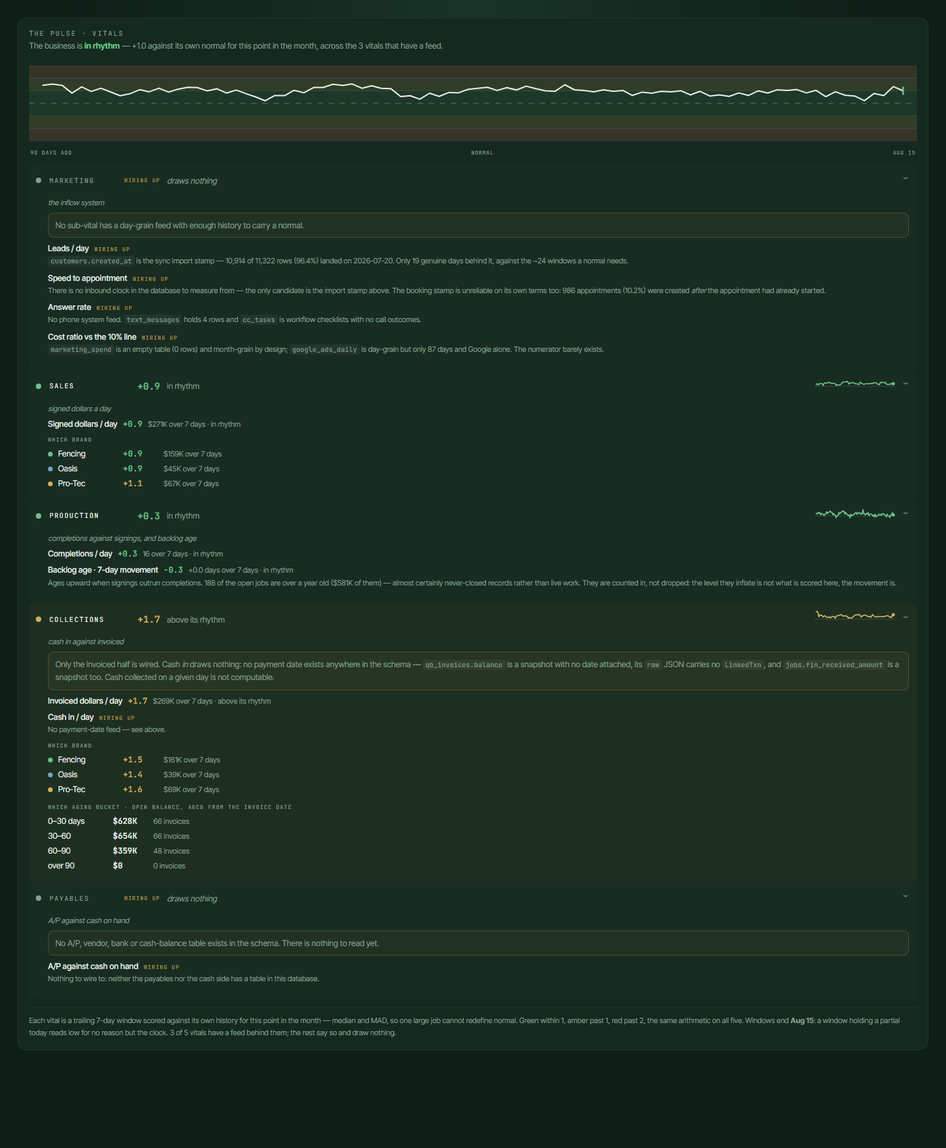
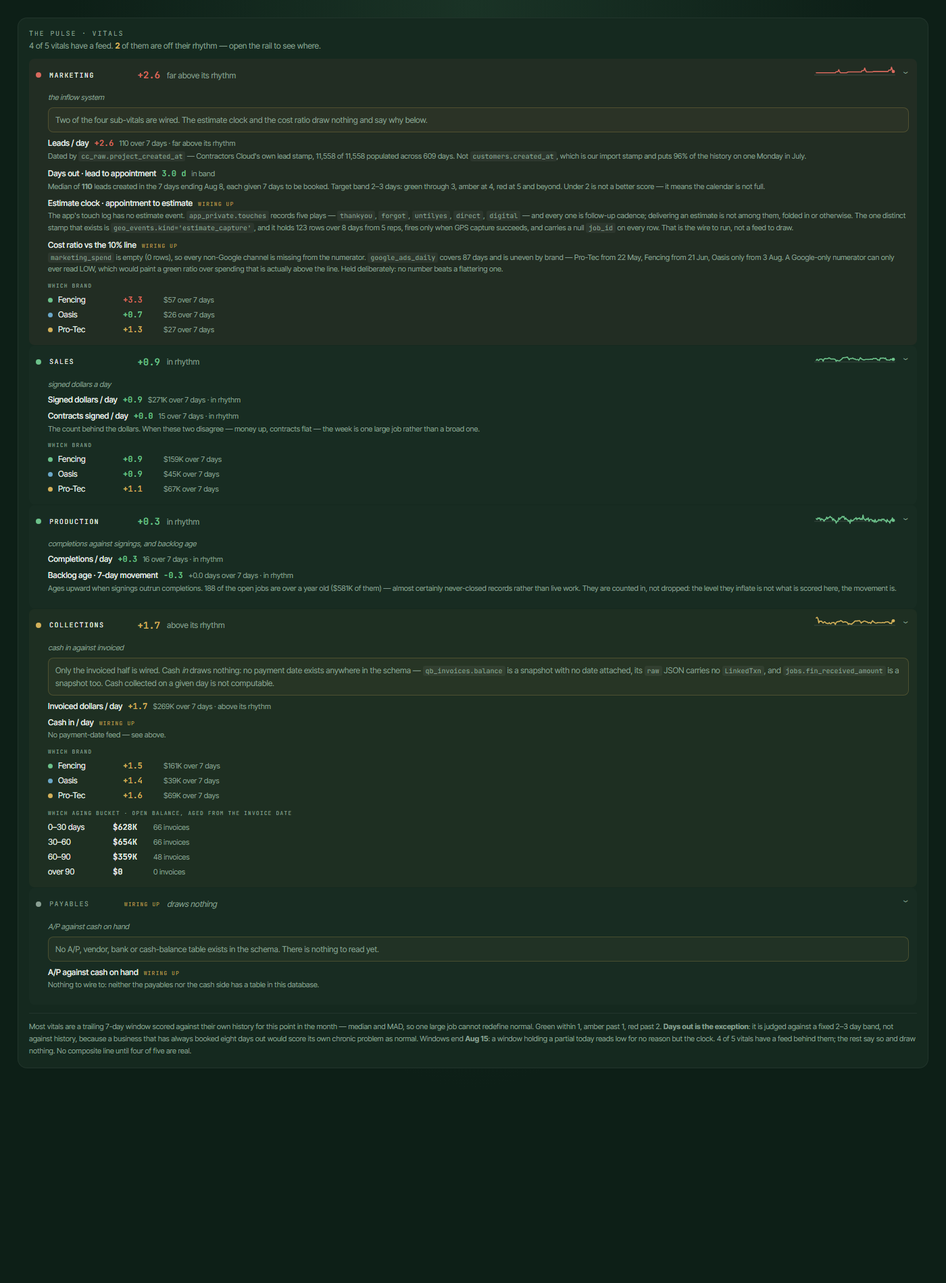
Marketing: LEADS/DAY and DAYS OUT are real lanes, and the lead clock was in cc_raw all along
The first pass shipped all four Marketing sub-vitals as "wiring up" on the
finding that no inbound clock existed. That was wrong, and the miss was mine:
I audited customers.created_at and jobs.created_at, found both to be the sync
import stamp, and never looked inside jobs.cc_raw.

cc_raw->>'project_created_at' is Contractors Cloud's own lead stamp and it is
real: 11,558 of 11,558 CC jobs populated, 609 distinct days, 2024-06-05 to
2026-08-14. Organic, not a backfill — Mon 25.6% / Sun 0.9%, biggest day 60
against a median of 18, and the five biggest days in two years are all ordinary
Mondays. It is lifted out server-side by PostgREST rather than pulling cc_raw
itself, which would put megabytes on every phone open for one timestamp.

LEADS / DAY rides the same engine as everything else: trailing 7-day window,
median + MAD, scored against its own history for this point in the month.

DAYS OUT does not, deliberately. It is judged against Kevin's fixed 2-3 day
band — green through 3, amber at 4, red at 5 and beyond — because a z-score
here defeats itself: a shop that has always booked eight days out has a
"normal" of eight, and scoring against it would report a chronic problem as
perfectly healthy. Under 2 stays green by the band but reads "capacity idle —
need leads" in words, because a calendar that empties is not a better score.

Two measurement choices worth naming:

  THE WINDOW IS SETTLED, NOT TRAILING. A window ending yesterday holds leads
[…]

diff --git a/index.html b/index.html
@@ -148,20 +148,15 @@
   .ekg-cap { font-family: 'JetBrains Mono', monospace; font-size: 8px; letter-spacing: 0.08em; text-transform: uppercase; color: var(--text-dim); margin-top: 3px; }
   .ekg-cap-ref { margin-left: 10px; color: var(--gold); opacity: 0.85; letter-spacing: normal; text-transform: none; }
   /* ── THE PULSE ─────────────────────────────────────────────────────────────
-     A vitals monitor reads top-down in one glance, so the composite trace gets
-     the width and the five vitals below it are rails, not cards. Nothing here
-     scrolls sideways and nothing depends on colour alone — every band carries a
-     number and a word beside its dot. */
+     A vitals monitor reads top-down in one glance, so the five vitals are rails,
+     not cards. Nothing here scrolls sideways and nothing depends on colour alone
+     — every band carries a number and a word beside its dot.
+
+     THE COMPOSITE TRACE IS HELD, and its geometry is deliberately gone rather
+     than parked. Kevin, 16 Aug: a single line over the whole business implies it
+     read the whole business, and today only two of five vitals have a feed. It
+     returns when four of five are real; recover the trace from 7840c0e. */
   .pulse-card { margin-bottom: 14px; }
-  .pulse-trace { display: block; width: 100%; height: 132px; margin: 4px 0 0; }
-  .pt-green { fill: rgba(108,194,139,0.10); }
-  .pt-amber { fill: rgba(212,177,90,0.14); }
-  .pt-red   { fill: rgba(217,106,94,0.17); }
-  .pt-rule  { stroke: rgba(255,255,255,0.10); stroke-width: 1; }
-  .pt-zero  { stroke: rgba(255,255,255,0.28); stroke-width: 1; stroke-dasharray: 4,4; }
-  .pt-line  { stroke: var(--text); stroke-width: 2; stroke-linecap: round; stroke-linejoin: round; }
-  .pulse-axis { display: flex; justify-content: space-between; font-family: 'JetBrains Mono', monospace;
-    font-size: 8px; letter-spacing: 0.1em; text-transform: uppercase; color: var(--text-dim); margin: 2px 2px 12px; }
   .pulse-vitals { display: flex; flex-direction: column; gap: 1px; }
   .pulse-vital { border-radius: 8px; overflow: hidden; background: rgba(255,255,255,0.015); }
   .pv-head { display: grid; grid-template-columns: 10px 96px 58px 1fr 120px 12px; align-items: center; gap: 10px;
@@ -216,7 +211,6 @@
     .pv-head { grid-template-columns: 10px 1fr 46px 12px; gap: 8px; row-gap: 2px; padding: 8px; }
     .pv-word { grid-column: 2 / 4; font-size: 11px; }
     .pv-spark { display: none; }
-    .pulse-trace { height: 104px; }
     .pulse-vital.open .pv-drill-in { padding: 2px 10px 12px 18px; }
     .pd-brand { flex-wrap: wrap; }
   }
@@ -4449,13 +4443,18 @@ const RHY_SEV  = { hot:'good', warm:'good', flat:'watch', cooling:'watch', cold:
 const rhyTick = d => d === null ? 'flat'
   : d >= 8 ? `▲${d}%` : d <= -8 ? `▼${Math.abs(d)}%` : 'flat';
 /* ── THE PULSE, drawn ────────────────────────────────────────────────────────
-   One composite trace on top — the whole business as a single line — with the
-   five vitals stacked beneath it. Glance at the top; drill down only if it
-   wobbles. Every row is a symptom and a place to look, never an instruction.
+   Five vitals stacked as rails. Glance down the dots; drill into whichever one
+   is not green. Every row is a symptom and a place to look, never an instruction.
+
+   NO COMPOSITE TRACE. It was built and then held (Kevin, 16 Aug): one line over
+   "the whole business" is a claim to have measured the whole business, and three
+   of these five vitals still have no feed. Averaging two live vitals into a
+   confident-looking line is precisely the lie the rest of this card refuses. The
+   composite ships when four of five are real.
 
    A vital with no feed behind it draws NOTHING. Not a flat line, not a zero, not
    a greyed guess — an empty rail and the reason in words. A drawn line is a
-   claim that something was measured, and three of these five have not been. */
+   claim that something was measured. */
 const PULSE_BAND_C = { green:'var(--green)', amber:'var(--gold)', red:'var(--red)', none:'var(--text-dim)' };
 
 function pulseWord(z, band){
@@ -4467,46 +4466,9 @@ function pulseWord(z, band){
 }
 const pulseZ = z => z === null ? '—' : (z >= 0 ? '+' : '−') + Math.abs(z).toFixed(1);
 
-/* The composite trace. Zero is the centre line and it is drawn, because on a
+/* A vital's own trace, at rail size. Zero is the centre line, because on a
    deviation score zero IS the baseline — "normal" is a real place on this axis,
-   not a truncation. The ±1 and ±2 bands are shaded behind the line so the
-   reading needs no legend and no axis labels. */
-function pulseTraceSvg(points, { w = 640, h = 132 } = {}){
-  const zs = points.map(p => p.z).filter(z => z !== null);
-  if (zs.length < 2) return '';
-  const pad = 10;
-  const zMax = Math.max(3, Math.ceil(Math.max(...zs.map(Math.abs))));
-  const n = points.length, stepX = (w - pad*2) / (n - 1);
-  const X = i => pad + i * stepX;
-  const Y = z => h/2 - (Math.max(-zMax, Math.min(zMax, z)) / zMax) * (h/2 - pad);
-  const segs = []; let cur = [];
-  points.forEach((p, i) => {
-    if (p.z === null){ if (cur.length > 1) segs.push(cur); cur = []; }
-    else cur.push(`${X(i).toFixed(1)},${Y(p.z).toFixed(1)}`);
-  });
-  if (cur.length > 1) segs.push(cur);
-  const last = points.reduce((a, p, i) => p.z !== null ? i : a, -1);
-  const band = pBand(last >= 0 ? points[last].z : null);
-  /* y is the UPPER of the two edges — Y() inverts, so Y(2) sits below Y(3) and
-     taking Y(b) blindly drew every band displaced downward by its own height. */
-  const rect = (a, b, cls) => `<rect x="0" y="${Math.min(Y(a), Y(b)).toFixed(1)}" width="${w}" height="${Math.abs(Y(a)-Y(b)).toFixed(1)}" class="${cls}"/>`;
-  return `<svg class="pulse-trace" viewBox="0 0 ${w} ${h}" preserveAspectRatio="none" role="img"
-      aria-label="Composite pulse, ${points.length} days, currently ${pulseZ(last>=0?points[last].z:null)} standard deviations from normal">
-    ${rect(zMax, 2, 'pt-red')}${rect(2, 1, 'pt-amber')}${rect(1, -1, 'pt-green')}${rect(-1, -2, 'pt-amber')}${rect(-2, -zMax, 'pt-red')}
-    ${[1,-1,2,-2].map(v => `<line x1="0" y1="${Y(v).toFixed(1)}" x2="${w}" y2="${Y(v).toFixed(1)}" class="pt-rule"/>`).join('')}
-    <line x1="0" y1="${Y(0)}" x2="${w}" y2="${Y(0)}" class="pt-zero"/>
-    ${segs.map(s => `<polyline points="${s.join(' ')}" class="pt-line" fill="none" vector-effect="non-scaling-stroke"/>`).join('')}
-    ${/* A vertical tick, not a dot: the viewBox is stretched horizontally to the
-          card width, which turns any circle into an ellipse. A tick is honest at
-          every width. */''}
-    ${last >= 0 ? `<line x1="${X(last).toFixed(1)}" y1="${(Y(points[last].z)-6).toFixed(1)}"
-        x2="${X(last).toFixed(1)}" y2="${(Y(points[last].z)+6).toFixed(1)}"
-        vector-effect="non-scaling-stroke" style="stroke:${PULSE_BAND_C[band]};stroke-width:2.5"/>` : ''}
-  </svg>`;
-}
-
-/* A vital's own trace, at rail size. Same zero-centred geometry as the composite
-   so the two are read with one habit, not two. */
+   not a truncation. */
 function pulseSparkSvg(spark, band, { w = 120, h = 30 } = {}){
   const zs = spark.map(p => p.z).filter(z => z !== null);
   if (zs.length < 2) return '';
@@ -4531,16 +4493,25 @@ function pulseDrill(key){
   if (el) el.classList.toggle('open');
 }
 
+/* Two kinds of sub-vital share this row, and they must not be made to look
+   alike. A z-scored one reads "how unusual is this against our own history"; a
+   threshold one reads "did this clear a line Kevin drew". Printing a z beside a
+   number that was never z-scored would invent a precision the second kind does
+   not have, so a threshold sub shows its measured value and its word, and no z
+   at all. */
 function pulseSubRow(s){
   const val = !s.live ? '' : s.unit === '$' ? short(s.value)
     : s.unit === 'd' ? (s.value >= 0 ? '+' : '−') + Math.abs(s.value).toFixed(1) + ' days'
     : Math.round(s.value);
+  const live = s.kind === 'band'
+    ? `<span class="pd-sub-z" style="color:${PULSE_BAND_C[s.band]}">${esc(s.valText)}</span>
+       <span class="pd-sub-v">${esc(s.wordText)}</span>`
+    : `<span class="pd-sub-z" style="color:${PULSE_BAND_C[s.band]}">${pulseZ(s.z)}</span>
+       <span class="pd-sub-v">${val} over 7 days · ${pulseWord(s.z, s.band)}</span>`;
   return `<div class="pd-sub${s.live ? '' : ' off'}">
     <div class="pd-sub-h">
       <span class="pd-sub-n">${esc(s.name)}</span>
-      ${s.live ? `<span class="pd-sub-z" style="color:${PULSE_BAND_C[s.band]}">${pulseZ(s.z)}</span>
-                  <span class="pd-sub-v">${val} over 7 days · ${pulseWord(s.z, s.band)}</span>`
-               : `<span class="pd-wire">WIRING UP</span>`}
+      ${s.live ? live : `<span class="pd-wire">WIRING UP</span>`}
     </div>
     ${s.note ? `<div class="pd-sub-note">${s.note}</div>` : ''}
   </div>`;
@@ -4559,15 +4530,22 @@ function pulseBrandRow(b){
 function cardPulse(){
   const P = D.pulse;
   if (!P) return '';
-  const head = P.z === null
+  /* No composite reading, because there is no composite. The header counts what
+     is measured and what is not, which is the honest one-line summary of a card
+     that is three-fifths unwired. */
+  const worst = P.vitals.filter(v => v.live && v.band !== 'green').length;
+  const head = !P.live
     ? 'No vital has enough history behind it to claim a normal yet.'
-    : `The business is <b style="color:${PULSE_BAND_C[P.band]}">${pulseWord(P.z, P.band)}</b> — ${pulseZ(P.z)} against its own normal for this point in the month, across the ${P.live} vital${P.live === 1 ? '' : 's'} that have a feed.`;
+    : `${P.live} of ${P.total} vitals have a feed. ` + (worst
+        ? `<b style="color:var(--gold)">${worst}</b> of them ${worst === 1 ? 'is' : 'are'} off their rhythm — open the rail to see where.`
+        : `All ${P.live} are in rhythm.`);
 
   const rows = P.vitals.map(v => {
-    const open = v.live ? '' : '';
+    const zTxt = v.zText != null ? esc(v.zText) : pulseZ(v.z);
+    const wTxt = v.wordText != null ? esc(v.wordText) : pulseWord(v.z, v.band);
     const body = v.live
-      ? `<span class="pv-z" style="color:${PULSE_BAND_C[v.band]}">${pulseZ(v.z)}</span>
-         <span class="pv-word">${pulseWord(v.z, v.band)}</span>
+      ? `<span class="pv-z" style="color:${PULSE_BAND_C[v.band]}">${zTxt}</span>
+         <span class="pv-word">${wTxt}</span>
          <span class="pv-spark">${pulseSparkSvg(v.spark, v.band)}</span>`
       : `<span class="pv-wire">WIRING UP</span><span class="pv-word off">draws nothing</span><span class="pv-spark"></span>`;
     const drill = [
@@ -4598,16 +4576,17 @@ function cardPulse(){
   return `<div class="card pulse-card">
     <div class="card-title">The pulse · vitals</div>
     <div class="card-sub">${head}</div>
-    ${pulseTraceSvg(P.trace)}
-    <div class="pulse-axis"><span>90 days ago</span><span>normal</span><span>${esc(endTxt)}</span></div>
     <div class="pulse-vitals">${rows}</div>
     <div class="pulse-foot">
-      Each vital is a trailing 7-day window scored against its own history for this
-      point in the month — median and MAD, so one large job cannot redefine normal.
-      Green within 1, amber past 1, red past 2, the same arithmetic on all five.
-      Windows end <b>${esc(endTxt)}</b>: a window holding a partial today reads low for
-      no reason but the clock. ${P.live} of ${P.total} vitals have a feed behind them;
-      the rest say so and draw nothing.
+      Most vitals are a trailing 7-day window scored against their own history for
+      this point in the month — median and MAD, so one large job cannot redefine
+      normal. Green within 1, amber past 1, red past 2. <b>Days out is the
+      exception</b>: it is judged against a fixed 2–3 day band, not against history,
+      because a business that has always booked eight days out would score its own
+      chronic problem as normal. Windows end <b>${esc(endTxt)}</b>: a window holding a
+      partial today reads low for no reason but the clock. ${P.live} of ${P.total}
+      vitals have a feed behind them; the rest say so and draw nothing. No composite
+      line until four of five are real.
     </div>
   </div>`;
 }
@@ -5928,7 +5907,7 @@ addEventListener('resize', () => {
    server for hours while Kevin looked at yesterday's build and reported the bug
    as unfixed. That happened. The page now checks version.json on every load and
    reloads itself once if the deployed build is newer than the one running. */
-const BUILD = '2026-08-16T18:40Z-the-pulse';
+const BUILD = '2026-08-16T21:15Z-pulse-lead-lanes';
 const SB_URL = 'https://lzegjjbkfuecrhdvlvay.supabase.co';
 /* The one page that can finish a password reset. Hard-coded rather than derived,
    because every derivation of it so far has been a source of bugs: a bare origin
@@ -6228,6 +6207,7 @@ function buildPulse(jobs, qbInv){
   const signed = jobs.filter(j => j.contract_signed_at);
   const done   = jobs.filter(j => j.completed_at);
   const sMap = agg(signed, 'contract_signed_at', j => Number(j.fin_sold_amount || 0));
+  const sMapN = agg(signed, 'contract_signed_at', () => 1);
   const cMap = agg(done,   'completed_at',       () => 1);
   const iMap = agg((qbInv || []).filter(r => !r.reporting_excluded), 'txn_date', r => Number(r.total_amt || 0));
 
@@ -6284,16 +6264,6 @@ function buildPulse(jobs, qbInv){
     return { name, live: !!l, z: l ? l.z : null, band: pBand(l ? l.z : null),
              value: l ? l.v : null, unit, dir, note, spark: tail(r, true) }; };
 
-  const marketing = { key:'marketing', name:'MARKETING', label:'the inflow system', live:false,
-    z:null, band:'none', spark:[],
-    why:'No sub-vital has a day-grain feed with enough history to carry a normal.',
-    subs:[
-      { name:'Leads / day', live:false, note:'<code>customers.created_at</code> is the sync import stamp — 10,914 of 11,322 rows (96.4%) landed on 2026-07-20. Only 19 genuine days behind it, against the ~24 windows a normal needs.' },
-      { name:'Speed to appointment', live:false, note:'There is no inbound clock in the database to measure from — the only candidate is the import stamp above. The booking stamp is unreliable on its own terms too: 986 appointments (10.2%) were created <em>after</em> the appointment had already started.' },
-      { name:'Answer rate', live:false, note:'No phone system feed. <code>text_messages</code> holds 4 rows and <code>cc_tasks</code> is workflow checklists with no call outcomes.' },
-      { name:'Cost ratio vs the 10% line', live:false, note:'<code>marketing_spend</code> is an empty table (0 rows) and month-grain by design; <code>google_ads_daily</code> is day-grain but only 87 days and Google alone. The numerator barely exists.' },
-    ] };
-
   /* DECOMPOSITION. A red vital has to point somewhere, so each brand is scored
      by the same arithmetic as its parent rather than merely listed with a share:
      a brand holding 12% of the money can still be the whole of the problem. */
@@ -6306,9 +6276,94 @@ function buildPulse(jobs, qbInv){
              live: !!l, z: l ? l.z : null, band: pBand(l ? l.z : null), value: l ? l.v : null };
   });
 
+  /* DAYS OUT is judged against a FIXED BAND, not against its own history, and
+     that is the one deliberate break from the arithmetic everything else uses.
+     Kevin set 2–3 days by hand. A z-score here would be self-defeating: a shop
+     that has always booked eight days out has a "normal" of eight, and scoring
+     against it would report a chronic problem as perfectly healthy. A target
+     nobody can drift away from is the whole point of a target.
+
+     THE WINDOW IS SETTLED, NOT TRAILING. A lead booked into an appointment takes
+     time to acquire one, so a window ending yesterday contains leads that simply
+     have not been booked YET — and dropping them keeps only the fast ones, which
+     drags the median down exactly when booking is slipping. That is the failure
+     direction that matters, so the window ends 7 days back instead: 92.2% of
+     leads that ever get an appointment have it within 7 days, and with the median
+     sitting near 3 that is far past the half-way mark the median needs. It costs
+     a week of latency on a number that moves over months. */
+  const DO_SETTLE = 7;
+  const doBand = m => m === null ? 'none' : m < 2 ? 'amber' : m <= 3 ? 'green' : m < 5 ? 'amber' : 'red';
+  const doWord = m => m === null ? '' : m < 2 ? 'capacity idle — need leads'
+    : m <= 3 ? 'in band' : m < 5 ? 'slipping out' : 'booking past the line';
+
+  const marketing = (() => {
+    const leadRows = jobs.filter(j => j.lead_at);
+    const lMap = agg(leadRows, 'lead_at', () => 1);
+    const L = lMap.size ? pulseScore(lMap, { from: from(first(lMap)), to: end }) : null;
+    const leads = sub('Leads / day', L, 'n', -1,
+      'Dated by <code>cc_raw.project_created_at</code> — Contractors Cloud\'s own lead stamp, 11,558 of 11,558 populated across 609 days. Not <code>customers.created_at</code>, which is our import stamp and puts 96% of the history on one Monday in July.');
+
+    /* Whole days, floor'd, from lead to the first appointment DATE — the same
+       units the 2-3 day band is written in. A same-day booking is 0, not 0.4. */
+    const doEnd = pDayAdd(+end, -DO_SETTLE), doStart = pDayAdd(doEnd, -(PULSE_WIN - 1));
+    const lags = []; let backwards = 0, booked = 0;
+    for (const j of leadRows){
+      if (!j.lead_appt_at) continue;
+      const l = sod(new Date(j.lead_at)), a = sod(new Date(j.lead_appt_at));
+      if (isNaN(+l) || isNaN(+a) || +l < doStart || +l > doEnd) continue;
+      booked++;
+      /* Appointment dated BEFORE its own lead — 4.2% of bookings. CC lets an
+         appointment be attached to a project created after the fact, so these are
+         real records of a real visit with an unusable clock. Counted out loud on
+         the card rather than quietly folded in as zeros, which would drag the
+         median toward "instant" and flatter the number. */
+      const d = pDayDiff(+a, +l);
+      if (d < 0){ backwards++; continue; }
+      lags.push(d);
+    }
+    const med = lags.length >= 5 ? pMedian(lags) : null;
+    const dOut = { name:'Days out · lead to appointment', kind:'band', live: med !== null,
+      band: doBand(med), valText: med === null ? '—' : med.toFixed(1) + ' d',
+      wordText: doWord(med),
+      note: med === null
+        ? `Fewer than 5 bookable leads in the settled window — no median worth printing.`
+        : `Median of <b>${lags.length}</b> lead${lags.length === 1 ? '' : 's'} created in the 7 days ending ${new Date(doEnd).toLocaleDateString('en-US',{month:'short',day:'numeric'})}, each given 7 days to be booked. Target band 2–3 days: green through 3, amber at 4, red at 5 and beyond. Under 2 is not a better score — it means the calendar is not full.` +
+          (backwards ? ` <b>${backwards}</b> of ${booked} (${(100*backwards/booked).toFixed(1)}%) excluded: the appointment is dated before its own lead, so the interval is unusable.` : '') };
+
+    const est = { name:'Estimate clock · appointment to estimate', live:false,
+      note:'The app\'s touch log has no estimate event. <code>app_private.touches</code> records five plays — <code>thankyou</code>, <code>forgot</code>, <code>untilyes</code>, <code>direct</code>, <code>digital</code> — and every one is follow-up cadence; delivering an estimate is not among them, folded in or otherwise. The one distinct stamp that exists is <code>geo_events.kind=\'estimate_capture\'</code>, and it holds 123 rows over 8 days from 5 reps, fires only when GPS capture succeeds, and carries a null <code>job_id</code> on every row. That is the wire to run, not a feed to draw.' };
+
+    const cost = { name:'Cost ratio vs the 10% line', live:false,
+      note:'<code>marketing_spend</code> is empty (0 rows), so every non-Google channel is missing from the numerator. <code>google_ads_daily</code> covers 87 days and is uneven by brand — Pro-Tec from 22 May, Fencing from 21 Jun, Oasis only from 3 Aug. A Google-only numerator can only ever read LOW, which would paint a green ratio over spending that is actually above the line. Held deliberately: no number beats a flattering one.' };
+
+    const subs = [leads, dOut, est, cost];
+    const rank = { none:0, green:1, amber:2, red:3 };
+    const liveSubs = subs.filter(s => s.live);
+    const lead = liveSubs.slice().sort((a,b) => rank[b.band] - rank[a.band])[0] || null;
+    /* The rail wears the worst live sub-vital's reading. When that is days out it
+       shows days and a word, because it never had a z to show. */
+    return { key:'marketing', name:'MARKETING', label:'the inflow system',
+      live: liveSubs.length > 0,
+      z: leads.live ? leads.z : null,
+      band: lead ? lead.band : 'none',
+      zText: lead && lead.kind === 'band' ? lead.valText : null,
+      wordText: lead && lead.kind === 'band' ? lead.wordText : null,
+      spark: leads.live ? leads.spark : [],
+      half: 'Two of the four sub-vitals are wired. The estimate clock and the cost ratio draw nothing and say why below.',
+      subs,
+      brands: brandCut(leadRows, 'lead_at', () => 1) };
+  })();
+
+  /* THE LUMP RULE, on a rail. Dollars alone cannot distinguish a good week from
+     one $200K roof, so the unit count rides alongside the money it came from —
+     the same reason the signed-by-day skyline carries both. It is a stated
+     count, not a second score: two numbers scored separately would just be two
+     vitals wearing one name. */
   const sales = (() => { const s = sub('Signed dollars / day', S, '$', -1, null);
+    const u = sub('Contracts signed / day', sMapN.size ? pulseScore(sMapN, { from: from(first(sMapN)), to: end }) : null, 'n', -1,
+      'The count behind the dollars. When these two disagree — money up, contracts flat — the week is one large job rather than a broad one.');
     return { key:'sales', name:'SALES', label:'signed dollars a day', live:s.live, z:s.z, band:s.band,
-             spark:s.spark, value:s.value, subs:[s],
+             spark:s.spark, value:s.value, subs:[s, u],
              brands: brandCut(signed, 'contract_signed_at', j => Number(j.fin_sold_amount || 0)) }; })();
 
   const production = (() => {
@@ -6345,21 +6400,11 @@ function buildPulse(jobs, qbInv){
 
   const vitals = [marketing, sales, production, collections, payables];
 
-  /* THE COMPOSITE. The mean of whichever vitals scored that day — the whole
-     business as one line. It is a mean and not a worst-of because a worst-of is
-     just the loudest vital wearing a composite's name, and the five stacked
-     beneath already say which one is loudest. n is carried so the trace can say
-     how many vitals are actually behind it. */
-  const live = vitals.filter(v => v.live && v.spark.length);
-  const trace = [];
-  for (let t = pDayAdd(+end, -(PULSE_TRACE-1)); t <= +end; t = pDayAdd(t, 1)){
-    const zs = live.map(v => (v.spark.find(p => p.k === t) || {}).z).filter(z => z !== null && z !== undefined);
-    trace.push({ k: t, z: zs.length ? zs.reduce((a,b) => a+b, 0) / zs.length : null, n: zs.length });
-  }
-  const last = [...trace].reverse().find(p => p.z !== null) || null;
-
-  return { end, trace, vitals, live: live.length, total: vitals.length,
-           z: last ? last.z : null, band: pBand(last ? last.z : null),
+  /* No composite is computed, not merely not drawn. A mean of two live vitals is
+     a number this file could print at any time; the reason it does not exist is
+     that printing it would answer "how is the business" using two fifths of the
+     business. Held until four of five are real. */
+  return { end, vitals, live: vitals.filter(v => v.live).length, total: vitals.length,
            poolN: S ? S.pool : 0 };
 }
 
@@ -8577,7 +8622,22 @@ async function loadAll(){
     // reporting_excluded comes down WITH the rows rather than being filtered in
     // the query, so the console can say how much it left out instead of silently
     // showing a smaller number than last time.
-    qp('jobs?select=cc_company_id,cc_project_id,rep_id,contract_signed_at,completed_at,cc_lead_source_id,fin_sold_amount,reporting_excluded,reporting_exclusion_reason,title&source=eq.cc'),
+    /* lead_at / lead_appt_at are lifted OUT of cc_raw by PostgREST rather than
+       pulling the blob: cc_raw is the whole CC project payload and fetching it
+       for 11.5K rows would roughly double what a phone downloads on every open.
+       Two scalar fields cost about 50 bytes a row.
+
+       THESE ARE THE ONLY HONEST LEAD CLOCK IN THE DATABASE. Not
+       `customers.created_at` and not `jobs.created_at` — both are our row-insert
+       time, and the warehouse was backfilled in one shot on 20 Jul 2026 (10,914
+       of 11,322 customers on that single day), so either one dates 96% of the
+       history to a Monday in July. `cc_raw->>project_created_at` is CC's own
+       stamp and survives the import: 11,558 of 11,558 populated across 609
+       distinct days, no spike on the backfill date (30 leads, against 29 the
+       following Monday), and a real business week behind it — Mon 25.9%, Sat
+       1.2%, Sun 0.8%, with 1,512 distinct clock times across 1,561 Monday rows.
+       A batch stamp cannot look like that. */
+    qp('jobs?select=cc_company_id,cc_project_id,rep_id,contract_signed_at,completed_at,cc_lead_source_id,fin_sold_amount,reporting_excluded,reporting_exclusion_reason,title,lead_at:cc_raw->>project_created_at,lead_appt_at:cc_raw->>project_first_appointment_at&source=eq.cc'),
     // cc_created_at is what makes a like-for-like booking comparison possible:
     // "what was on the books last Monday" has to count only what was booked BY
     // last Monday, not what the week eventually filled with.
